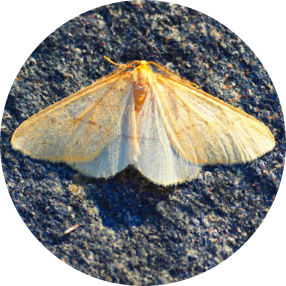
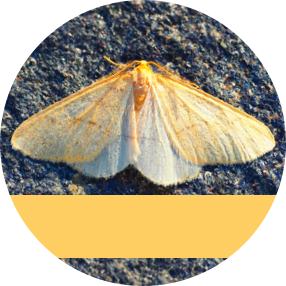
fix button take photo

Changed region(s): [[0.028, 0.6713, 0.979, 0.9231]]

diff --git a/src/components/TakeFotoButton.js b/src/components/TakeFotoButton.js
@@ -2,7 +2,7 @@ import React, { PropTypes } from 'react';
 import { View, Text, TouchableOpacity, StyleSheet, Image } from 'react-native';
 import LinearGradient from 'react-native-linear-gradient';
 import { colors } from '../global';
-import { scale } from '../global/constants';
+import { scale, scaleByVertical } from '../global/constants';
 
 const sizeContainer = scale(300);
 const sizeImage = scale(286);
@@ -25,10 +25,10 @@ const styles = StyleSheet.create({
   },
   textContainer: {
     height: scale(63),
-    backgroundColor: colors.orange,
+    backgroundColor: colors.transparent,
     position: 'absolute',
     width: sizeContainer,
-    bottom: scale(42),
+    bottom: scaleByVertical(38),
     alignItems: 'center',
     justifyContent: 'center'
   },
@@ -38,7 +38,8 @@ const styles = StyleSheet.create({
   text: {
     fontWeight: 'bold',
     fontSize: scale(30),
-    textAlign: 'center'
+    textAlign: 'center',
+    color: colors.black
   },
   textAndroid: {
     color: colors.mainOrange
@@ -57,8 +58,8 @@ export default function TakeFotoBtn(props) {
           source={image}
           style={styles.img}
         />
-        <View style={[styles.textContainer, isAndroid && styles.textContainerAndroid]}>
-          <Text style={[styles.text, isAndroid && styles.textAndroid]}>{'Take photo'.localized}</Text>
+        <View style={styles.textContainer}>
+          <Text style={styles.text}>{'Take photo'.localized}</Text>
         </View>
       </LinearGradient>
     </TouchableOpacity>
